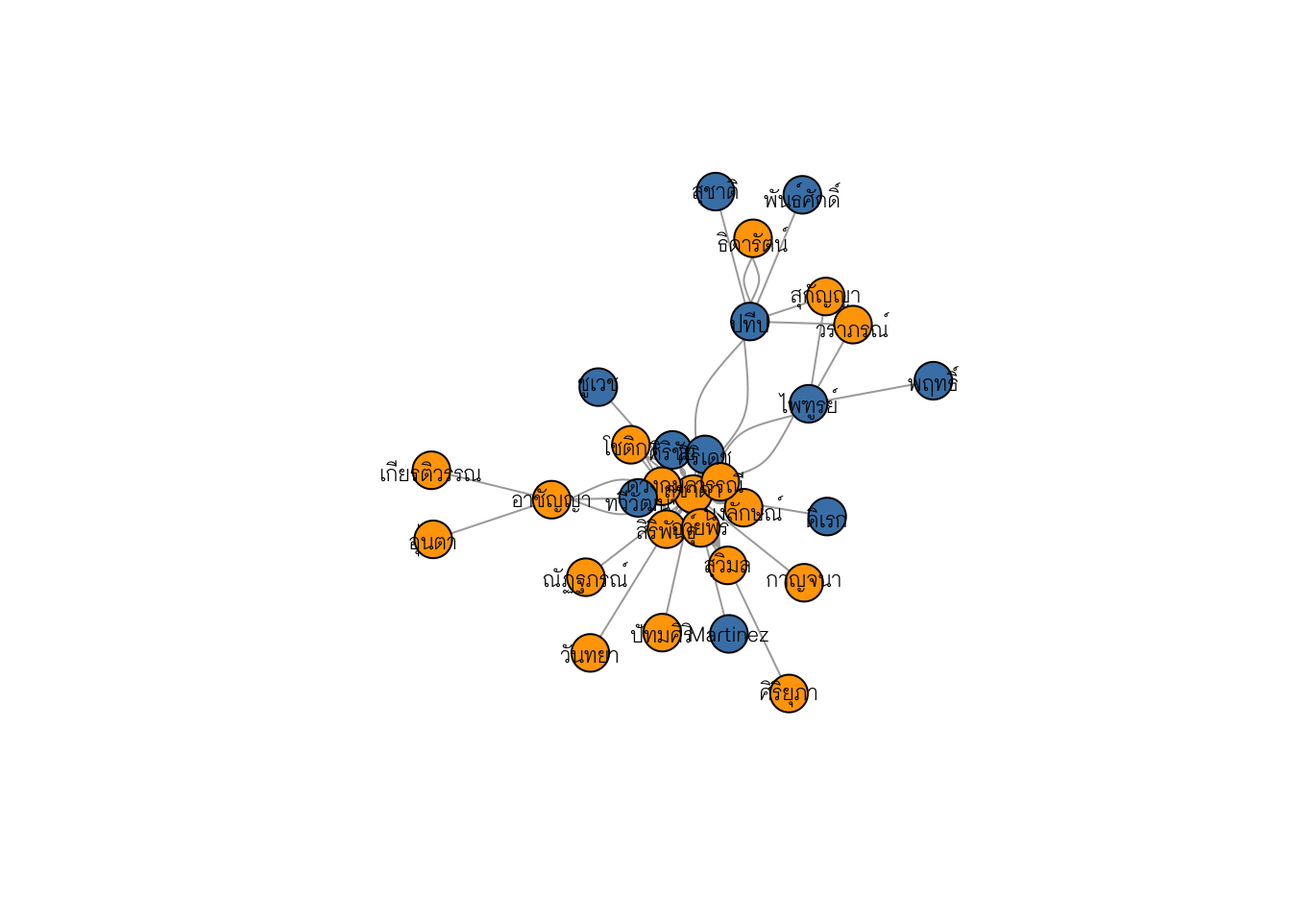
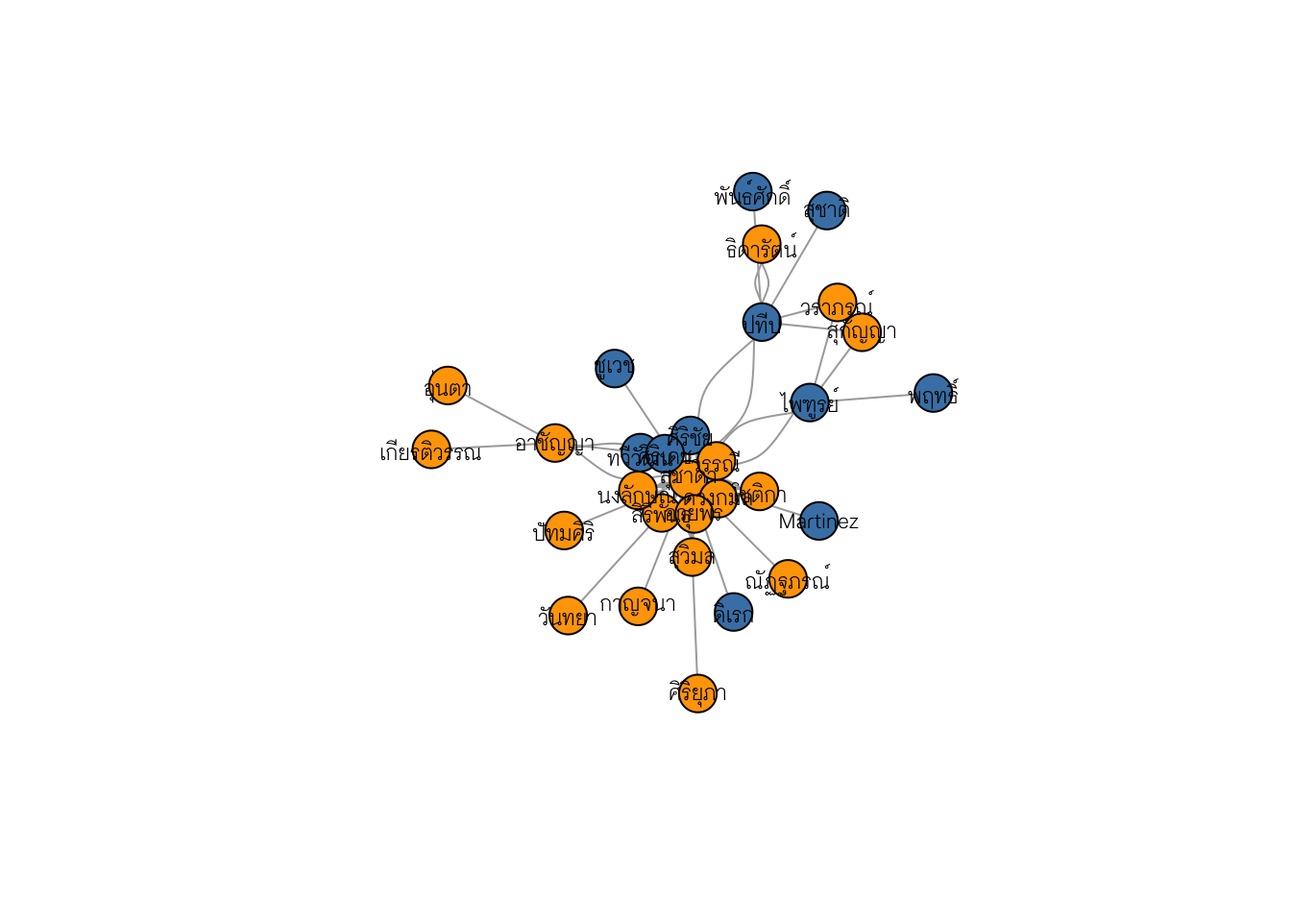
update

diff --git a/DataVisualization/week11/index.html b/DataVisualization/week11/index.html
@@ -55,7 +55,27 @@ div.sourceCode
 @media screen {
 pre > code.sourceCode > span > a:first-child::before { text-decoration: underline; }
 }
-</style>
+/* CSS for citations */
+div.csl-bib-body { }
+div.csl-entry {
+  clear: both;
+  margin-bottom: 0em;
+}
+.hanging-indent div.csl-entry {
+  margin-left:2em;
+  text-indent:-2em;
+}
+div.csl-left-margin {
+  min-width:2em;
+  float:left;
+}
+div.csl-right-inline {
+  margin-left:2em;
+  padding-left:1em;
+}
+div.csl-indent {
+  margin-left: 2em;
+}</style>
 
 
 <script src="index_files/libs/clipboard/clipboard.min.js"></script>
@@ -217,7 +237,7 @@ D 0 0 1 0</code></pre>
 </div>
 <section id="visualization-library" class="level3" data-number="2.1">
 <h3 data-number="2.1" class="anchored" data-anchor-id="visualization-library"><span class="header-section-number">2.1</span> Visualization library</h3>
-<p>มี library หลายตัวที่สามารถใช้สร้าง network visualization ได้ บทเรียนนี้จะแนะนำสองตัวได้แก่ <code>{igraph}</code> และ <code>{ggraph}</code></p>
+<p>มี library หลายตัวที่สามารถใช้สร้าง network visualization ได้ บทเรียนนี้จะแนะนำสองตัวได้แก่ <code>{igraph}</code> และ <code>{ggraph}</code> <span class="citation" data-cites="igraph2023">(<a href="#ref-igraph2023" role="doc-biblioref">Csardi and Nepusz 2023</a>)</span></p>
 <div class="cell">
 <div class="sourceCode cell-code" id="cb4"><pre class="sourceCode r code-with-copy"><code class="sourceCode r"><span id="cb4-1"><a href="#cb4-1" aria-hidden="true" tabindex="-1"></a><span class="do">## install.packages("igraph")</span></span>
 <span id="cb4-2"><a href="#cb4-2" aria-hidden="true" tabindex="-1"></a><span class="do">## install.packages("ggraph")</span></span>
@@ -241,9 +261,9 @@ D 0 0 1 0</code></pre>
 <div class="sourceCode cell-code" id="cb6"><pre class="sourceCode r code-with-copy"><code class="sourceCode r"><span id="cb6-1"><a href="#cb6-1" aria-hidden="true" tabindex="-1"></a>g <span class="ot">&lt;-</span> <span class="fu">graph_from_edgelist</span>(<span class="fu">as.matrix</span>(edges), <span class="at">directed =</span> F)</span>
 <span id="cb6-2"><a href="#cb6-2" aria-hidden="true" tabindex="-1"></a>g</span></code><button title="Copy to Clipboard" class="code-copy-button"><i class="bi"></i></button></pre></div>
 <div class="cell-output cell-output-stdout">
-<pre><code>IGRAPH cacb5e9 UN-- 4 4 -- 
+<pre><code>IGRAPH 667a8f6 UN-- 4 4 -- 
 + attr: name (v/c)
-+ edges from cacb5e9 (vertex names):
++ edges from 667a8f6 (vertex names):
 [1] A--B B--C C--D A--D</code></pre>
 </div>
 </div>
@@ -402,9 +422,9 @@ $ mainStat          &lt;chr&gt; "HLM,SEM,Latent Growth Curve Model", "MANOVA, Pa
 <span id="cb18-4"><a href="#cb18-4" aria-hidden="true" tabindex="-1"></a>                                              <span class="at">directed =</span> F)</span>
 <span id="cb18-5"><a href="#cb18-5" aria-hidden="true" tabindex="-1"></a>teacher_network_igraph</span></code><button title="Copy to Clipboard" class="code-copy-button"><i class="bi"></i></button></pre></div>
 <div class="cell-output cell-output-stdout">
-<pre><code>IGRAPH 4b33a48 UN-- 30 125 -- 
+<pre><code>IGRAPH 100b149 UN-- 30 125 -- 
 + attr: name (v/c)
-+ edges from 4b33a48 (vertex names):
++ edges from 100b149 (vertex names):
  [1] ศิริชัย --สุชาดา    ศิริชัย --ทวีวัฒน์    ศิริชัย --ศิริเดช    สุชาดา--นงลักษณ์  
  [5] สุชาดา--วรรณี     สุชาดา--สิริพันธุ์    สุชาดา--ศิริเดช    สุชาดา--สิริพันธุ์   
  [9] สุชาดา--วรรณี     สุชาดา--ศิริเดช    สุชาดา--สิริพันธุ์    สุชาดา--วรรณี    
@@ -423,9 +443,9 @@ $ mainStat          &lt;chr&gt; "HLM,SEM,Latent Growth Curve Model", "MANOVA, Pa
 <span id="cb20-3"><a href="#cb20-3" aria-hidden="true" tabindex="-1"></a>                                                <span class="at">directed =</span> F)</span>
 <span id="cb20-4"><a href="#cb20-4" aria-hidden="true" tabindex="-1"></a>teacher_network_igraph </span></code><button title="Copy to Clipboard" class="code-copy-button"><i class="bi"></i></button></pre></div>
 <div class="cell-output cell-output-stdout">
-<pre><code>IGRAPH f0d4ea8 UN-- 30 125 -- 
+<pre><code>IGRAPH 56e415d UN-- 30 125 -- 
 + attr: name (v/c)
-+ edges from f0d4ea8 (vertex names):
++ edges from 56e415d (vertex names):
  [1] ศิริชัย --สุชาดา    ศิริชัย --ทวีวัฒน์    ศิริชัย --ศิริเดช    สุชาดา--นงลักษณ์  
  [5] สุชาดา--วรรณี     สุชาดา--สิริพันธุ์    สุชาดา--ศิริเดช    สุชาดา--สิริพันธุ์   
  [9] สุชาดา--วรรณี     สุชาดา--ศิริเดช    สุชาดา--สิริพันธุ์    สุชาดา--วรรณี    
@@ -465,7 +485,7 @@ $ mainStat          &lt;chr&gt; "HLM,SEM,Latent Growth Curve Model", "MANOVA, Pa
 <div class="cell">
 <div class="sourceCode cell-code" id="cb26"><pre class="sourceCode r code-with-copy"><code class="sourceCode r"><span id="cb26-1"><a href="#cb26-1" aria-hidden="true" tabindex="-1"></a><span class="fu">E</span>(teacher_network_igraph)</span></code><button title="Copy to Clipboard" class="code-copy-button"><i class="bi"></i></button></pre></div>
 <div class="cell-output cell-output-stdout">
-<pre><code>+ 125/125 edges from f0d4ea8 (vertex names):
+<pre><code>+ 125/125 edges from 56e415d (vertex names):
  [1] ศิริชัย --สุชาดา    ศิริชัย --ทวีวัฒน์    ศิริชัย --ศิริเดช    สุชาดา--นงลักษณ์  
  [5] สุชาดา--วรรณี     สุชาดา--สิริพันธุ์    สุชาดา--ศิริเดช    สุชาดา--สิริพันธุ์   
  [9] สุชาดา--วรรณี     สุชาดา--ศิริเดช    สุชาดา--สิริพันธุ์    สุชาดา--วรรณี    
@@ -592,9 +612,9 @@ $gender
 <div class="cell">
 <div class="sourceCode cell-code" id="cb34"><pre class="sourceCode r code-with-copy"><code class="sourceCode r"><span id="cb34-1"><a href="#cb34-1" aria-hidden="true" tabindex="-1"></a>graph</span></code><button title="Copy to Clipboard" class="code-copy-button"><i class="bi"></i></button></pre></div>
 <div class="cell-output cell-output-stdout">
-<pre><code>IGRAPH f0d4ea8 UN-- 30 125 -- 
+<pre><code>IGRAPH 56e415d UN-- 30 125 -- 
 + attr: name (v/c), role (e/c)
-+ edges from f0d4ea8 (vertex names):
++ edges from 56e415d (vertex names):
  [1] ศิริชัย --สุชาดา    ศิริชัย --ทวีวัฒน์    ศิริชัย --ศิริเดช    สุชาดา--นงลักษณ์  
  [5] สุชาดา--วรรณี     สุชาดา--สิริพันธุ์    สุชาดา--ศิริเดช    สุชาดา--สิริพันธุ์   
  [9] สุชาดา--วรรณี     สุชาดา--ศิริเดช    สุชาดา--สิริพันธุ์    สุชาดา--วรรณี    
@@ -692,10 +712,10 @@ $gender
 <span id="cb40-3"><a href="#cb40-3" aria-hidden="true" tabindex="-1"></a>                                         <span class="at">directed =</span> F)</span>
 <span id="cb40-4"><a href="#cb40-4" aria-hidden="true" tabindex="-1"></a>graph_with_attr</span></code><button title="Copy to Clipboard" class="code-copy-button"><i class="bi"></i></button></pre></div>
 <div class="cell-output cell-output-stdout">
-<pre><code>IGRAPH 08c7c3c UN-- 30 125 -- 
+<pre><code>IGRAPH bd9ab84 UN-- 30 125 -- 
 + attr: name (v/c), gender (v/c), code (e/n), year (e/n), name_role
 | (e/c)
-+ edges from 08c7c3c (vertex names):
++ edges from bd9ab84 (vertex names):
  [1] ศิริชัย --สุชาดา    ศิริชัย --ทวีวัฒน์    ศิริชัย --ศิริเดช    สุชาดา--นงลักษณ์  
  [5] สุชาดา--วรรณี     สุชาดา--สิริพันธุ์    สุชาดา--ศิริเดช    สุชาดา--สิริพันธุ์   
  [9] สุชาดา--วรรณี     สุชาดา--ศิริเดช    สุชาดา--สิริพันธุ์    สุชาดา--วรรณี    
@@ -714,7 +734,7 @@ $gender
 <div class="cell">
 <div class="sourceCode cell-code" id="cb42"><pre class="sourceCode r code-with-copy"><code class="sourceCode r"><span id="cb42-1"><a href="#cb42-1" aria-hidden="true" tabindex="-1"></a><span class="fu">E</span>(graph_with_attr)[[<span class="fu">.from</span>(<span class="st">"ศิริชัย"</span>)]]</span></code><button title="Copy to Clipboard" class="code-copy-button"><i class="bi"></i></button></pre></div>
 <div class="cell-output cell-output-stdout">
-<pre><code>+ 10/125 edges from 08c7c3c (vertex names):
+<pre><code>+ 10/125 edges from bd9ab84 (vertex names):
     tail   head tid hid code year  name_role
 1   ศิริชัย  สุชาดา   1   2    1 2543 co_advisor
 2   ศิริชัย  ทวีวัฒน์   1   9    1 2543  commitee1
@@ -729,7 +749,7 @@ $gender
 </div>
 <div class="sourceCode cell-code" id="cb44"><pre class="sourceCode r code-with-copy"><code class="sourceCode r"><span id="cb44-1"><a href="#cb44-1" aria-hidden="true" tabindex="-1"></a><span class="fu">E</span>(graph_with_attr)[[year <span class="sc">&gt;</span> <span class="dv">2550</span>]]</span></code><button title="Copy to Clipboard" class="code-copy-button"><i class="bi"></i></button></pre></div>
 <div class="cell-output cell-output-stdout">
-<pre><code>+ 28/125 edges from 08c7c3c (vertex names):
+<pre><code>+ 28/125 edges from bd9ab84 (vertex names):
     tail     head tid hid code year  name_role
 9  สุชาดา     วรรณี   2  12    5 2551 co_advisor
 10 สุชาดา    ศิริเดช   2  10    6 2551 co_advisor
@@ -762,7 +782,7 @@ $gender
 </div>
 <div class="sourceCode cell-code" id="cb46"><pre class="sourceCode r code-with-copy"><code class="sourceCode r"><span id="cb46-1"><a href="#cb46-1" aria-hidden="true" tabindex="-1"></a><span class="fu">V</span>(graph_with_attr)[[<span class="dv">1</span><span class="sc">:</span><span class="dv">6</span>]]</span></code><button title="Copy to Clipboard" class="code-copy-button"><i class="bi"></i></button></pre></div>
 <div class="cell-output cell-output-stdout">
-<pre><code>+ 6/30 vertices, named, from 08c7c3c:
+<pre><code>+ 6/30 vertices, named, from bd9ab84:
     name gender
 1   ศิริชัย   Male
 2  สุชาดา Female
@@ -773,7 +793,7 @@ $gender
 </div>
 <div class="sourceCode cell-code" id="cb48"><pre class="sourceCode r code-with-copy"><code class="sourceCode r"><span id="cb48-1"><a href="#cb48-1" aria-hidden="true" tabindex="-1"></a><span class="fu">V</span>(graph_with_attr)[[gender <span class="sc">==</span> <span class="st">"Male"</span>]]</span></code><button title="Copy to Clipboard" class="code-copy-button"><i class="bi"></i></button></pre></div>
 <div class="cell-output cell-output-stdout">
-<pre><code>+ 11/30 vertices, named, from 08c7c3c:
+<pre><code>+ 11/30 vertices, named, from bd9ab84:
        name gender
 1      ศิริชัย   Male
 3       ปทีป   Male
@@ -798,10 +818,10 @@ $gender
 <span id="cb50-2"><a href="#cb50-2" aria-hidden="true" tabindex="-1"></a><span class="fu">V</span>(graph_with_attr)<span class="sc">$</span>color <span class="ot">&lt;-</span> <span class="fu">ifelse</span>(<span class="fu">V</span>(graph_with_attr)<span class="sc">$</span>gender <span class="sc">==</span> <span class="st">"Male"</span>, <span class="st">"steelblue"</span>,<span class="st">"orange"</span>)</span>
 <span id="cb50-3"><a href="#cb50-3" aria-hidden="true" tabindex="-1"></a>graph_with_attr</span></code><button title="Copy to Clipboard" class="code-copy-button"><i class="bi"></i></button></pre></div>
 <div class="cell-output cell-output-stdout">
-<pre><code>IGRAPH 08c7c3c UN-- 30 125 -- 
+<pre><code>IGRAPH bd9ab84 UN-- 30 125 -- 
 + attr: name (v/c), gender (v/c), color (v/c), code (e/n), year (e/n),
 | name_role (e/c)
-+ edges from 08c7c3c (vertex names):
++ edges from bd9ab84 (vertex names):
  [1] ศิริชัย --สุชาดา    ศิริชัย --ทวีวัฒน์    ศิริชัย --ศิริเดช    สุชาดา--นงลักษณ์  
  [5] สุชาดา--วรรณี     สุชาดา--สิริพันธุ์    สุชาดา--ศิริเดช    สุชาดา--สิริพันธุ์   
  [9] สุชาดา--วรรณี     สุชาดา--ศิริเดช    สุชาดา--สิริพันธุ์    สุชาดา--วรรณี    
@@ -1187,7 +1207,7 @@ $gender
 <div class="sourceCode cell-code" id="cb73"><pre class="sourceCode r code-with-copy"><code class="sourceCode r"><span id="cb73-1"><a href="#cb73-1" aria-hidden="true" tabindex="-1"></a><span class="do">## อ.ดวงกมลเชิญใครมาเป็นกรรมการบ้าง</span></span>
 <span id="cb73-2"><a href="#cb73-2" aria-hidden="true" tabindex="-1"></a><span class="fu">incident</span>(g3, <span class="st">"ดวงกมล"</span>, <span class="at">mode =</span> <span class="st">"in"</span>) </span></code><button title="Copy to Clipboard" class="code-copy-button"><i class="bi"></i></button></pre></div>
 <div class="cell-output cell-output-stdout">
-<pre><code>+ 6/16 edges from 2233864 (vertex names):
+<pre><code>+ 6/16 edges from f816221 (vertex names):
 [1] วรรณี -&gt;ดวงกมล ศิริชัย -&gt;ดวงกมล สิริพันธุ์-&gt;ดวงกมล สุชาดา-&gt;ดวงกมล อวยพร-&gt;ดวงกมล
 [6] โชติกา-&gt;ดวงกมล</code></pre>
 </div>
@@ -1255,12 +1275,12 @@ $gender
 <div class="cell">
 <div class="sourceCode cell-code" id="cb78"><pre class="sourceCode r code-with-copy"><code class="sourceCode r"><span id="cb78-1"><a href="#cb78-1" aria-hidden="true" tabindex="-1"></a><span class="fu">neighbors</span>(all_g, <span class="st">"ศิริเดช"</span>, <span class="at">mode =</span> <span class="st">"all"</span>)</span></code><button title="Copy to Clipboard" class="code-copy-button"><i class="bi"></i></button></pre></div>
 <div class="cell-output cell-output-stdout">
-<pre><code>+ 5/30 vertices, named, from e0ecfa0:
+<pre><code>+ 5/30 vertices, named, from 15da289:
 [1] ศิริชัย  สิริพันธุ์ สุชาดา สุชาดา สุชาดา</code></pre>
 </div>
 <div class="sourceCode cell-code" id="cb80"><pre class="sourceCode r code-with-copy"><code class="sourceCode r"><span id="cb80-1"><a href="#cb80-1" aria-hidden="true" tabindex="-1"></a><span class="fu">neighbors</span>(all_g, <span class="st">"ศิริเดช"</span>, <span class="at">mode =</span> <span class="st">"in"</span>)</span></code><button title="Copy to Clipboard" class="code-copy-button"><i class="bi"></i></button></pre></div>
 <div class="cell-output cell-output-stdout">
-<pre><code>+ 5/30 vertices, named, from e0ecfa0:
+<pre><code>+ 5/30 vertices, named, from 15da289:
 [1] ศิริชัย  สิริพันธุ์ สุชาดา สุชาดา สุชาดา</code></pre>
 </div>
 </div>
@@ -1284,7 +1304,7 @@ $gender
 <span id="cb84-2"><a href="#cb84-2" aria-hidden="true" tabindex="-1"></a>y <span class="ot">&lt;-</span> <span class="fu">neighbors</span>(all_g, <span class="st">"พฤทธิ์"</span>, <span class="at">mode =</span> <span class="st">"all"</span>)</span>
 <span id="cb84-3"><a href="#cb84-3" aria-hidden="true" tabindex="-1"></a><span class="fu">intersection</span>(x,y)</span></code><button title="Copy to Clipboard" class="code-copy-button"><i class="bi"></i></button></pre></div>
 <div class="cell-output cell-output-stdout">
-<pre><code>+ 1/30 vertex, named, from e0ecfa0:
+<pre><code>+ 1/30 vertex, named, from 15da289:
 [1] ไพฑูรย์</code></pre>
 </div>
 </div>
@@ -1296,7 +1316,7 @@ $gender
 <div class="sourceCode cell-code" id="cb86"><pre class="sourceCode r code-with-copy"><code class="sourceCode r"><span id="cb86-1"><a href="#cb86-1" aria-hidden="true" tabindex="-1"></a><span class="fu">farthest_vertices</span>(all_g)</span></code><button title="Copy to Clipboard" class="code-copy-button"><i class="bi"></i></button></pre></div>
 <div class="cell-output cell-output-stdout">
 <pre><code>$vertices
-+ 2/30 vertices, named, from e0ecfa0:
++ 2/30 vertices, named, from 15da289:
 [1] ดวงกมล ศิริยุภา 
 
 $distance
@@ -1307,7 +1327,7 @@ $distance
 <div class="cell">
 <div class="sourceCode cell-code" id="cb88"><pre class="sourceCode r code-with-copy"><code class="sourceCode r"><span id="cb88-1"><a href="#cb88-1" aria-hidden="true" tabindex="-1"></a><span class="fu">get_diameter</span>(all_g)</span></code><button title="Copy to Clipboard" class="code-copy-button"><i class="bi"></i></button></pre></div>
 <div class="cell-output cell-output-stdout">
-<pre><code>+ 4/30 vertices, named, from e0ecfa0:
+<pre><code>+ 4/30 vertices, named, from 15da289:
 [1] ดวงกมล สุชาดา  สุวิมล   ศิริยุภา </code></pre>
 </div>
 </div>
@@ -1316,7 +1336,7 @@ $distance
 <div class="sourceCode cell-code" id="cb90"><pre class="sourceCode r code-with-copy"><code class="sourceCode r"><span id="cb90-1"><a href="#cb90-1" aria-hidden="true" tabindex="-1"></a><span class="fu">ego</span>(all_g, <span class="dv">1</span>, <span class="st">"สุชาดา"</span>, <span class="at">mode =</span> <span class="st">"in"</span>)</span></code><button title="Copy to Clipboard" class="code-copy-button"><i class="bi"></i></button></pre></div>
 <div class="cell-output cell-output-stdout">
 <pre><code>[[1]]
-+ 8/30 vertices, named, from e0ecfa0:
++ 8/30 vertices, named, from 15da289:
 [1] สุชาดา  ดวงกมล ปทีป    ศิริชัย   สิริพันธุ์  สุวิมล   อาชัญญา ไพฑูรย์ </code></pre>
 </div>
 </div>
@@ -1665,25 +1685,87 @@ $distance
 <li><p>วิเคราะห์โครงสร้างของ network ในข้อ 1.</p></li>
 </ol>
 <div class="cell">
-<div class="sourceCode cell-code" id="cb114"><pre class="sourceCode r code-with-copy"><code class="sourceCode r"><span id="cb114-1"><a href="#cb114-1" aria-hidden="true" tabindex="-1"></a><span class="fu">library</span>(thaitextrecipe)</span>
-<span id="cb114-2"><a href="#cb114-2" aria-hidden="true" tabindex="-1"></a><span class="do">## สร้าง network ของ mainStat กับคำสำคัญหลักของงานวิจัย</span></span>
-<span id="cb114-3"><a href="#cb114-3" aria-hidden="true" tabindex="-1"></a>thesis_data <span class="sc">%&gt;%</span> <span class="fu">glimpse</span>()</span>
-<span id="cb114-4"><a href="#cb114-4" aria-hidden="true" tabindex="-1"></a>thesis_data <span class="sc">%&gt;%</span> </span>
-<span id="cb114-5"><a href="#cb114-5" aria-hidden="true" tabindex="-1"></a>  <span class="fu">select</span>(mainStat, depart) <span class="sc">%&gt;%</span> </span>
-<span id="cb114-6"><a href="#cb114-6" aria-hidden="true" tabindex="-1"></a>  <span class="fu">mutate</span>(<span class="at">mainStat =</span> <span class="fu">str_replace_all</span>(mainStat, <span class="st">","</span>,<span class="st">" "</span>)) <span class="sc">%&gt;%</span> </span>
-<span id="cb114-7"><a href="#cb114-7" aria-hidden="true" tabindex="-1"></a>  <span class="fu">unnest_tokens</span>(word, mainStat, </span>
-<span id="cb114-8"><a href="#cb114-8" aria-hidden="true" tabindex="-1"></a>                <span class="at">token =</span> thai_tokenizer,</span>
-<span id="cb114-9"><a href="#cb114-9" aria-hidden="true" tabindex="-1"></a>                <span class="at">token_engine =</span> <span class="st">"longest"</span>) <span class="sc">%&gt;%</span> </span>
-<span id="cb114-10"><a href="#cb114-10" aria-hidden="true" tabindex="-1"></a>  <span class="fu">filter</span>(<span class="sc">!</span>word <span class="sc">%in%</span> stop_words) <span class="sc">%&gt;%</span> </span>
-<span id="cb114-11"><a href="#cb114-11" aria-hidden="true" tabindex="-1"></a>  <span class="fu">filter</span>(<span class="sc">!</span><span class="fu">str_detect</span>(word, <span class="st">"</span><span class="sc">\\</span><span class="st">d+"</span>)) <span class="sc">%&gt;%</span> </span>
-<span id="cb114-12"><a href="#cb114-12" aria-hidden="true" tabindex="-1"></a>  <span class="fu">mutate</span>(<span class="at">word =</span> <span class="fu">str_squish</span>(word)) <span class="sc">%&gt;%</span> </span>
-<span id="cb114-13"><a href="#cb114-13" aria-hidden="true" tabindex="-1"></a>  <span class="fu">group_by</span>(depart, word) <span class="sc">%&gt;%</span> </span>
-<span id="cb114-14"><a href="#cb114-14" aria-hidden="true" tabindex="-1"></a>  <span class="fu">count</span>() <span class="sc">%&gt;%</span> </span>
-<span id="cb114-15"><a href="#cb114-15" aria-hidden="true" tabindex="-1"></a>  <span class="fu">arrange</span>(<span class="fu">desc</span>(n))</span></code><button title="Copy to Clipboard" class="code-copy-button"><i class="bi"></i></button></pre></div>
+<div class="sourceCode cell-code" id="cb114"><pre class="sourceCode r code-with-copy"><code class="sourceCode r"><span id="cb114-1"><a href="#cb114-1" aria-hidden="true" tabindex="-1"></a><span class="fu">library</span>(stringr)</span>
+<span id="cb114-2"><a href="#cb114-2" aria-hidden="true" tabindex="-1"></a>thesis_data <span class="sc">%&gt;%</span></span>
+<span id="cb114-3"><a href="#cb114-3" aria-hidden="true" tabindex="-1"></a>  <span class="fu">select</span>(code, mainStat) <span class="sc">%&gt;%</span> </span>
+<span id="cb114-4"><a href="#cb114-4" aria-hidden="true" tabindex="-1"></a>  <span class="fu">separate</span>(mainStat, <span class="at">into =</span> <span class="fu">c</span>(<span class="st">"stat1"</span>,<span class="st">"stat2"</span>,<span class="st">"stat3"</span>,<span class="st">"stat4"</span>,</span>
+<span id="cb114-5"><a href="#cb114-5" aria-hidden="true" tabindex="-1"></a>                              <span class="st">"stat5"</span>,<span class="st">"stat6"</span>), <span class="at">sep =</span> <span class="st">","</span>) <span class="sc">%&gt;%</span> </span>
+<span id="cb114-6"><a href="#cb114-6" aria-hidden="true" tabindex="-1"></a>  <span class="fu">pivot_longer</span>(<span class="at">cols =</span> <span class="sc">-</span><span class="dv">1</span>, <span class="at">names_to =</span> <span class="st">"statid"</span>, <span class="at">values_to =</span> <span class="st">"mainStat"</span>) <span class="sc">%&gt;%</span> </span>
+<span id="cb114-7"><a href="#cb114-7" aria-hidden="true" tabindex="-1"></a>  <span class="fu">drop_na</span>() <span class="sc">%&gt;%</span> </span>
+<span id="cb114-8"><a href="#cb114-8" aria-hidden="true" tabindex="-1"></a>  <span class="fu">mutate</span>(<span class="at">mainStat =</span> <span class="fu">str_to_lower</span>(mainStat)) <span class="sc">%&gt;%</span> </span>
+<span id="cb114-9"><a href="#cb114-9" aria-hidden="true" tabindex="-1"></a>  <span class="fu">mutate</span>(<span class="at">mainStat =</span> <span class="fu">str_replace</span>(mainStat, <span class="st">"lisrel"</span>,<span class="st">"sem"</span>)) <span class="sc">%&gt;%</span> </span>
+<span id="cb114-10"><a href="#cb114-10" aria-hidden="true" tabindex="-1"></a>  <span class="fu">mutate</span>(<span class="at">mainStat =</span> <span class="fu">str_replace</span>(mainStat, <span class="st">"การวิเคราะห์สหสัมพันธ์"</span>,<span class="st">"correlation"</span>))<span class="sc">%&gt;%</span> </span>
+<span id="cb114-11"><a href="#cb114-11" aria-hidden="true" tabindex="-1"></a>  <span class="fu">mutate</span>(<span class="at">mainStat =</span> <span class="fu">str_squish</span>(mainStat)) <span class="sc">%&gt;%</span> </span>
+<span id="cb114-12"><a href="#cb114-12" aria-hidden="true" tabindex="-1"></a>  <span class="fu">mutate</span>(<span class="at">mainStat =</span> <span class="fu">str_replace</span>(mainStat, <span class="st">"mean"</span>,<span class="st">"descriptive"</span>)) <span class="sc">%&gt;%</span> </span>
+<span id="cb114-13"><a href="#cb114-13" aria-hidden="true" tabindex="-1"></a>  <span class="fu">mutate</span>(<span class="at">mainStat =</span> <span class="fu">str_replace</span>(mainStat, <span class="st">"monte carlo simulation technique"</span>,<span class="st">"monte carlo simulation"</span>)) <span class="sc">%&gt;%</span> </span>
+<span id="cb114-14"><a href="#cb114-14" aria-hidden="true" tabindex="-1"></a>  <span class="fu">mutate</span>(<span class="at">mainStat =</span> <span class="fu">str_replace</span>(mainStat, <span class="st">"invariance"</span>,<span class="st">"multi-group analysis"</span>)) <span class="sc">%&gt;%</span> </span>
+<span id="cb114-15"><a href="#cb114-15" aria-hidden="true" tabindex="-1"></a>  <span class="fu">mutate</span>(<span class="at">mainStat =</span> <span class="fu">str_replace</span>(mainStat, <span class="st">"analytic induction"</span>,<span class="st">"analysis induction"</span>)) <span class="sc">%&gt;%</span> </span>
+<span id="cb114-16"><a href="#cb114-16" aria-hidden="true" tabindex="-1"></a>  <span class="fu">mutate</span>(<span class="at">mainStat =</span> <span class="fu">str_replace</span>(mainStat, <span class="st">"model multi-group analysis"</span>,<span class="st">"multi-group analysis"</span>)) <span class="sc">%&gt;%</span> </span>
+<span id="cb114-17"><a href="#cb114-17" aria-hidden="true" tabindex="-1"></a>  <span class="fu">full_join</span>(</span>
+<span id="cb114-18"><a href="#cb114-18" aria-hidden="true" tabindex="-1"></a>    thesis_data <span class="sc">%&gt;%</span></span>
+<span id="cb114-19"><a href="#cb114-19" aria-hidden="true" tabindex="-1"></a>      <span class="fu">select</span>(code, depart),</span>
+<span id="cb114-20"><a href="#cb114-20" aria-hidden="true" tabindex="-1"></a>    <span class="at">by =</span> <span class="st">"code"</span></span>
+<span id="cb114-21"><a href="#cb114-21" aria-hidden="true" tabindex="-1"></a>    </span>
+<span id="cb114-22"><a href="#cb114-22" aria-hidden="true" tabindex="-1"></a>  ) <span class="sc">%&gt;%</span> </span>
+<span id="cb114-23"><a href="#cb114-23" aria-hidden="true" tabindex="-1"></a>  <span class="fu">select</span>(mainStat, depart, <span class="dv">1</span><span class="sc">:</span><span class="dv">2</span>) <span class="sc">%&gt;%</span> </span>
+<span id="cb114-24"><a href="#cb114-24" aria-hidden="true" tabindex="-1"></a>  <span class="fu">full_join</span>(</span>
+<span id="cb114-25"><a href="#cb114-25" aria-hidden="true" tabindex="-1"></a>    thesis_data <span class="sc">%&gt;%</span> </span>
+<span id="cb114-26"><a href="#cb114-26" aria-hidden="true" tabindex="-1"></a>      <span class="fu">select</span>(code,advisor) <span class="sc">%&gt;%</span> </span>
+<span id="cb114-27"><a href="#cb114-27" aria-hidden="true" tabindex="-1"></a>      <span class="fu">mutate</span>(<span class="at">advisor =</span> <span class="fu">str_remove</span>(advisor, <span class="st">"</span><span class="sc">\\</span><span class="st">s.*"</span>)),</span>
+<span id="cb114-28"><a href="#cb114-28" aria-hidden="true" tabindex="-1"></a>    <span class="at">by =</span> <span class="st">"code"</span></span>
+<span id="cb114-29"><a href="#cb114-29" aria-hidden="true" tabindex="-1"></a>  ) <span class="sc">%&gt;%</span> </span>
+<span id="cb114-30"><a href="#cb114-30" aria-hidden="true" tabindex="-1"></a>  <span class="fu">select</span>(depart,mainStat, advisor) <span class="sc">%&gt;%</span> </span>
+<span id="cb114-31"><a href="#cb114-31" aria-hidden="true" tabindex="-1"></a>  <span class="fu">group_by</span>(depart, mainStat, advisor) <span class="sc">%&gt;%</span> </span>
+<span id="cb114-32"><a href="#cb114-32" aria-hidden="true" tabindex="-1"></a>  <span class="fu">count</span>() <span class="sc">%&gt;%</span> </span>
+<span id="cb114-33"><a href="#cb114-33" aria-hidden="true" tabindex="-1"></a>  <span class="fu">drop_na</span>() <span class="sc">%&gt;%</span> </span>
+<span id="cb114-34"><a href="#cb114-34" aria-hidden="true" tabindex="-1"></a>  <span class="fu">ungroup</span>() <span class="sc">%&gt;%</span> </span>
+<span id="cb114-35"><a href="#cb114-35" aria-hidden="true" tabindex="-1"></a>  <span class="do">## ตัด row ที่ไม่มีข้อมูลออก</span></span>
+<span id="cb114-36"><a href="#cb114-36" aria-hidden="true" tabindex="-1"></a>  <span class="fu">filter</span>(mainStat <span class="sc">!=</span> <span class="st">""</span>) <span class="sc">%&gt;%</span></span>
+<span id="cb114-37"><a href="#cb114-37" aria-hidden="true" tabindex="-1"></a>  <span class="do">## convert to igraph object</span></span>
+<span id="cb114-38"><a href="#cb114-38" aria-hidden="true" tabindex="-1"></a>  <span class="fu">graph_from_data_frame</span>(<span class="at">directed =</span> T)<span class="ot">-&gt;</span> mainStat_graph</span>
+<span id="cb114-39"><a href="#cb114-39" aria-hidden="true" tabindex="-1"></a></span>
+<span id="cb114-40"><a href="#cb114-40" aria-hidden="true" tabindex="-1"></a>mainStat_graph</span></code><button title="Copy to Clipboard" class="code-copy-button"><i class="bi"></i></button></pre></div>
+<div class="cell-output cell-output-stdout">
+<pre><code>IGRAPH 61c3d32 DN-- 60 75 -- 
++ attr: name (v/c), advisor (e/c), n (e/n)
++ edges from 61c3d32 (vertex names):
+[1] การวัดผลทางการศึกษา      -&gt;hlm                                    
+[2] การวัดผลทางการศึกษา      -&gt;latent growth curve model              
+[3] การวัดผลทางการศึกษา      -&gt;sem                                    
+[4] การวัดและประเมินผลการศึกษา-&gt;correlation                            
+[5] การวัดและประเมินผลการศึกษา-&gt;descriptive statistics                 
+[6] การวัดและประเมินผลการศึกษา-&gt;generalized analysis of variance system
+[7] การวัดและประเมินผลการศึกษา-&gt;rater agreement index                  
+[8] การวัดและประเมินผลการศึกษา-&gt;การจำลองข้อมูล                           
++ ... omitted several edges</code></pre>
 </div>
+</div>
+<div class="cell">
+<div class="sourceCode cell-code" id="cb116"><pre class="sourceCode r code-with-copy"><code class="sourceCode r"><span id="cb116-1"><a href="#cb116-1" aria-hidden="true" tabindex="-1"></a>mainStat_graph <span class="sc">%&gt;%</span> </span>
+<span id="cb116-2"><a href="#cb116-2" aria-hidden="true" tabindex="-1"></a>  <span class="fu">ggraph</span>(<span class="st">"kk"</span>)<span class="sc">+</span></span>
+<span id="cb116-3"><a href="#cb116-3" aria-hidden="true" tabindex="-1"></a>  <span class="fu">geom_edge_link</span>(<span class="at">edge_color =</span> <span class="st">"grey90"</span>,</span>
+<span id="cb116-4"><a href="#cb116-4" aria-hidden="true" tabindex="-1"></a>                 <span class="at">arrow =</span> <span class="fu">arrow</span>(<span class="at">type =</span> <span class="st">"closed"</span>, <span class="at">length =</span> <span class="fu">unit</span>(<span class="fl">1.5</span>, <span class="st">"mm"</span>)))<span class="sc">+</span></span>
+<span id="cb116-5"><a href="#cb116-5" aria-hidden="true" tabindex="-1"></a>  <span class="co">#geom_node_point(col = "grey30", alpha = 0.5)+</span></span>
+<span id="cb116-6"><a href="#cb116-6" aria-hidden="true" tabindex="-1"></a>  <span class="fu">geom_node_text</span>(<span class="fu">aes</span>(<span class="at">label =</span> name), </span>
+<span id="cb116-7"><a href="#cb116-7" aria-hidden="true" tabindex="-1"></a>                 <span class="at">check_overlap =</span> <span class="cn">TRUE</span>,</span>
+<span id="cb116-8"><a href="#cb116-8" aria-hidden="true" tabindex="-1"></a>                 <span class="at">family =</span> <span class="st">"ChulaCharasNew"</span>)<span class="sc">+</span></span>
+<span id="cb116-9"><a href="#cb116-9" aria-hidden="true" tabindex="-1"></a>  <span class="fu">theme_void</span>()</span></code><button title="Copy to Clipboard" class="code-copy-button"><i class="bi"></i></button></pre></div>
+<div class="cell-output-display">
+<div>
+<figure class="figure">
+<p><img src="index_files/figure-html/unnamed-chunk-62-1.png" class="img-fluid figure-img" width="1152"></p>
+</figure>
+</div>
+</div>
+</div>
+
 </section>
 
-</main>
+<div id="quarto-appendix" class="default"><section class="quarto-appendix-contents" role="doc-bibliography" id="quarto-bibliography"><h2 class="anchored quarto-appendix-heading">References</h2><div id="refs" class="references csl-bib-body hanging-indent" data-entry-spacing="0" role="list">
+<div id="ref-igraph2023" class="csl-entry" role="listitem">
+Csardi, Gabor, and Tamas Nepusz. 2023. <span>“Igraph - Network Analysis and Visualization.”</span> <a href="https://r.igraph.org/articles/igraph.html">https://r.igraph.org/articles/igraph.html</a>.
+</div>
+</div></section></div></main>
 <!-- /main column -->
 <script id="quarto-html-after-body" type="application/javascript">
 window.document.addEventListener("DOMContentLoaded", function (event) {
